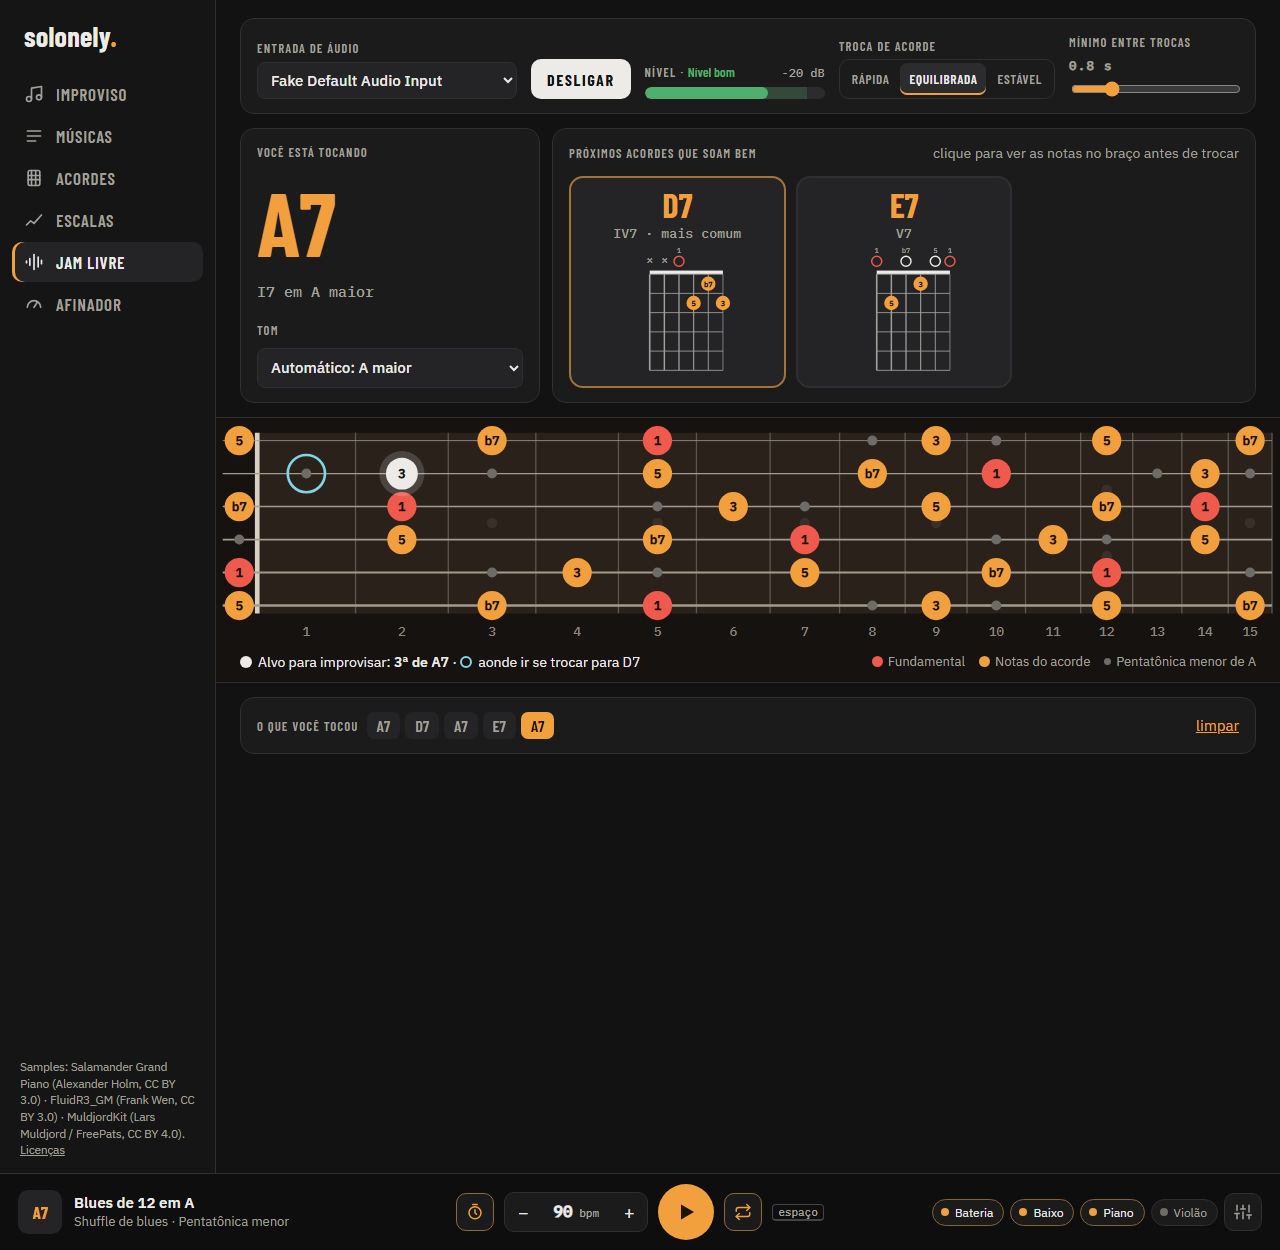
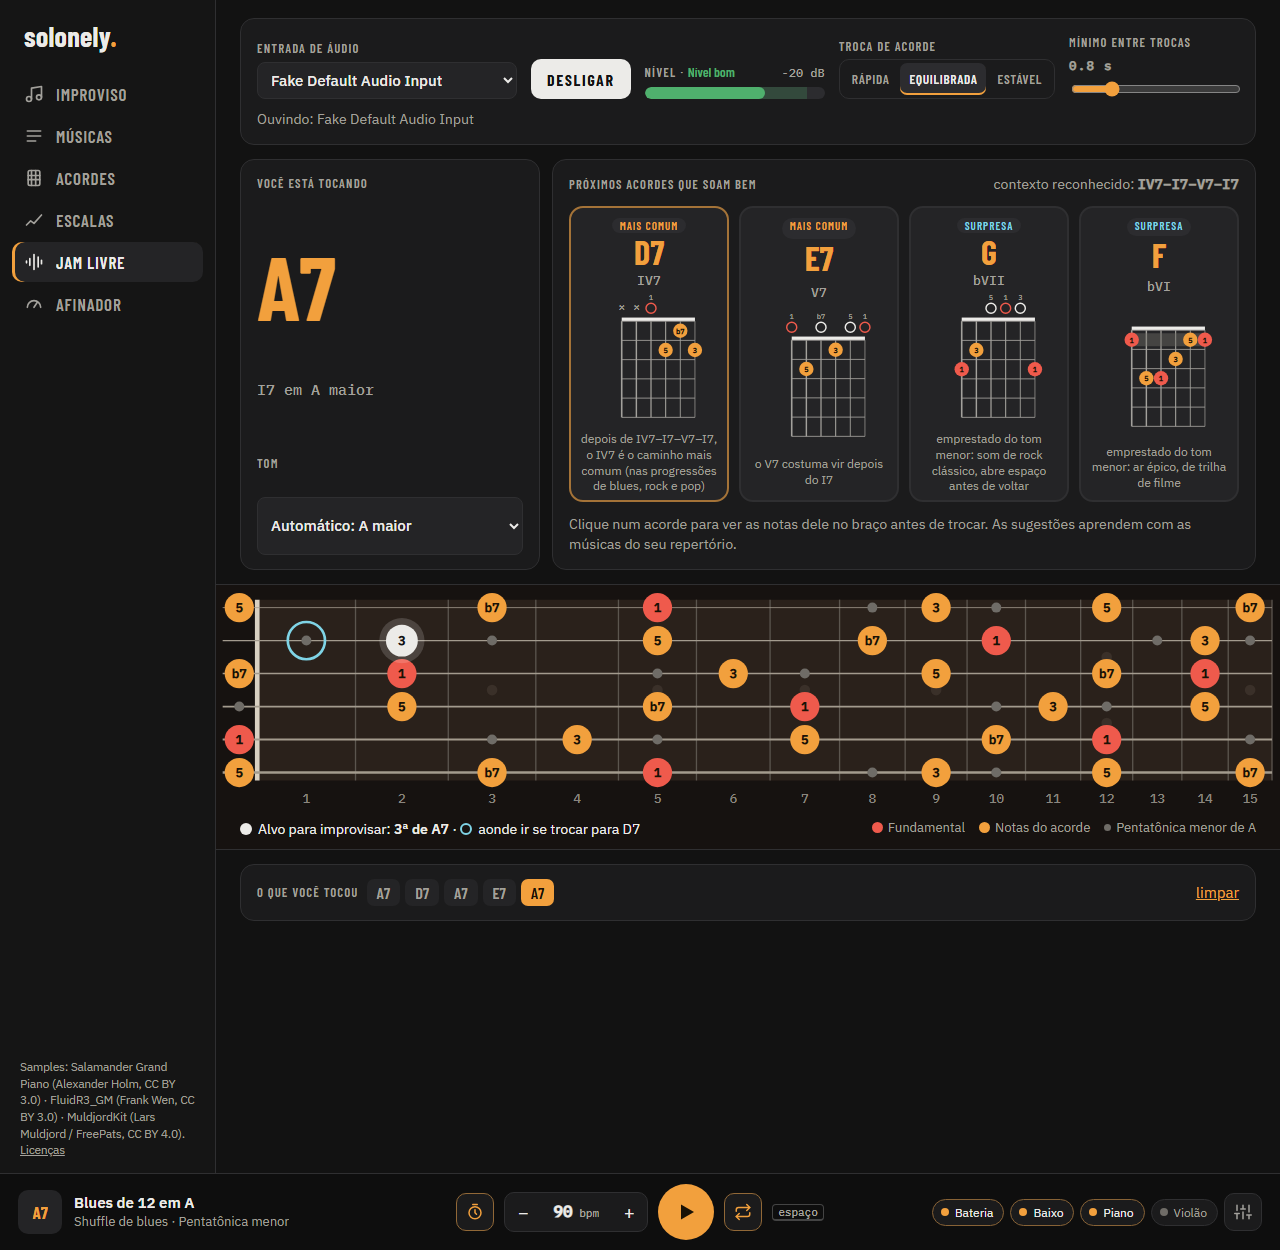
Documentação da rodada de melhorias: README, plano e prints novos (Compor, Jam, placar)

diff --git a/README.md b/README.md
@@ -47,8 +47,9 @@ por cima de uma base genérica do YouTube. Faltam três coisas:
 
 ### Improviso
 - Faixa da progressão andando até a linha "agora" (estilo Yousician), com a próxima troca e quanto falta.
-- Progressões prontas (blues de 12 normal e *quick change*, I–V–vi–IV, I–bVII–IV, i–bVII–bVI)
-  ou digitadas (`Am*2 G F E7`).
+- Progressões prontas em tom maior (blues de 12 normal e *quick change*, I–V–vi–IV, I–bVII–IV) e
+  menor (blues menor, i–iv–v, i–bVI–bIII–bVII, i–bVII–bVI, andaluza), ou digitadas (`Am*2 G F E7`).
+  O seletor de tom tem os 24 tons; num tom menor a base vira a versão menor da progressão.
 - Quatro estilos: **shuffle de blues**, **rock reto**, **slow blues 12/8** e **pop rock/balada**.
 - O braço mostra o desenho (box 1–5) em foco: a **fundamental** em vermelho, as **notas do acorde**
   em destaque com o grau (3, b7…) e a escala em pontos discretos. No tempo 4, brilham as notas do
@@ -58,7 +59,22 @@ por cima de uma base genérica do YouTube. Faltam três coisas:
   até a b7 de D7). Improvise livre e pouse no alvo no tempo 1.
 - Restrições sorteáveis para treino deliberado: "só box 2", "termine frases na 3ª",
   "só cordas 1 e 2"…
+- Escala no braço à escolha (inclusive modos e arpejos) ou **acompanhando o acorde**: mixolídio no 7,
+  dórico no m7, menor natural na tônica menor.
+- **Placar de notas-alvo**: com a guitarra ligada, o app confere o tempo 1 de cada compasso (no alvo,
+  outra nota do acorde ou fora).
 - Mixer (bateria, baixo, piano, violão), contagem de entrada, loop, virada a cada 4 ou 8 compassos.
+
+### Compor
+
+![Compor: progressão por efeito](docs/screenshots/compor.png)
+
+- Escolha o tom e o primeiro acorde; a cada passo o app oferece opções pelo **efeito**: repousar,
+  criar tensão, subir a energia, melancolia, surpresa, conclusão sóbria / forte / épica, suspense.
+- Cada opção mostra os acordes, os graus e **por que soa assim**, e tem **▶ ouvir** (o último acorde
+  + a opção, no violão) antes de usar; "outra opção" troca a sugestão.
+- Seções (verso, refrão, ponte…) com começos sugeridos, desenhos dos acordes usados,
+  **tocar com a base**, **improvisar sobre ela** e **salvar como música** do repertório.
 
 ### Músicas (repertório)
 
@@ -84,8 +100,8 @@ por cima de uma base genérica do YouTube. Faltam três coisas:
 
 ![Quiz de acordes](docs/screenshots/acordes-desktop.png)
 
-- Banco com ~30 formas móveis e abertas (power, maior, menor, 7, m7, 7M, sus2, sus4, add9),
-  com fundamental na 6ª e na 5ª corda.
+- Banco com formas móveis e abertas de 14 tipos (power, maior, menor, 7, m7, 7M, sus2, sus4, add9,
+  6, 9, 7(#9), m7(b5) e º7), com fundamental na 6ª e na 5ª corda.
 - **Consulta**: digite qualquer cifra (inclusive Am7b5, E9, C13, D/F#) e veja fórmula, notas e
   **todas as formas tocáveis no braço**, geradas por busca (até 4 dedos, contando pestana) e
   ordenadas da casa 1 à 15. As principais aparecem primeiro; clicar num desenho mostra onde
@@ -93,19 +109,21 @@ por cima de uma base genérica do YouTube. Faltam três coisas:
 
 ![Consulta de acordes com todas as formas](docs/screenshots/acordes-consulta.png)
 - **Quatro quizzes**: cifra → desenho, desenho → cifra, cifra → notas e um modo **cronometrado**
-  para fazer com a guitarra na mão.
+  para fazer com a guitarra na mão, que pode ser **conferido pelo áudio** (o relógio para quando o
+  acorde pedido soa). Teclas 1–4 e Enter para responder.
 - **Repetição espaçada (Leitner)**: o que você erra ou demora aparece mais vezes.
 
 ### Escalas
 
 ![Exercícios de escala](docs/screenshots/escalas-desktop.png)
 
-- Pentatônica menor e maior, blues, maior e menor natural, nos **desenhos 1–5**, em qualquer tom.
+- Pentatônica menor e maior, blues e blues maior, maior, menor natural, **dórico, mixolídio, menor
+  harmônica** e **arpejos** (maior, menor, 7, m7, 7M), nos **desenhos 1–5**, em qualquer tom.
 - Exercícios no metrônomo, com a nota da vez acesa no braço (e a próxima marcada): **subir e descer**,
   **grupos de 3 e de 4**, **terças** e **percorrer os boxes** (sobe um, desce o seguinte, atravessando o braço).
 - Ritmo em semínimas, colcheias, tercinas ou semicolcheias; opção de ouvir cada nota no violão.
 - Exibição para memorizar: tudo, **só as tônicas** ou **esconder e revelar**.
-- **Onde está a nota?**: quiz clicando no braço ("onde está o Lá na 3ª corda?"), com repetição espaçada.
+- **Onde está a nota?**: quiz clicando no braço ou **tocando a nota** ("onde está o Lá na 3ª corda?"), com repetição espaçada.
 - **Treinos salvos**: combinações favoritas viram o plano da semana.
 
 ### Jam livre
@@ -115,7 +133,9 @@ por cima de uma base genérica do YouTube. Faltam três coisas:
 Você toca livre; o app escuta e acompanha:
 - **acorde que você está tocando** e a função dele no tom ("IV7 em Lá maior");
 - **tom estimado** a partir do que foi tocado; quando é ambíguo (ex.: Em–D–C–D), mostra o rival para você fixar;
-- **3 próximos acordes** que soam bem, com o desenho de cada um (clique para ver as notas no braço antes de trocar);
+- **até 6 próximos acordes pelo contexto**: o app reconhece os últimos até 6 acordes (ex.: I–V–vi) num
+  banco de progressões **e das músicas do seu repertório**, e separa as opções em *mais comum*,
+  *volta pra casa* e *surpresa*, cada uma com o motivo em uma linha e o desenho;
 - **alvo para improvisar** (3ª/7ª do acorde) perto da última nota que você tocou, e o anel de aonde ir se trocar;
 - histórico do que você tocou.
 
@@ -268,8 +288,10 @@ npm run e2e        # com o preview rodando: Jam livre num navegador headless com
 - [x] **Jam livre** (primeira versão): acorde e tom detectados, próximos acordes e notas-alvo em tempo real
 - [x] **Músicas** (v0.2): colar uma cifra e virar base de treino, grade editável, cifra rolando
 - [ ] **Treino do dia + progresso**: sessão montada automaticamente e histórico de acertos
-- [ ] Jam livre aprendendo as transições com as músicas do seu repertório
-- [ ] Quiz cronometrado conferido pelo áudio (o app ouve se você tocou o acorde pedido)
+- [x] Jam livre pelo contexto, aprendendo com as músicas do repertório
+- [x] **Compor**: progressões pelo efeito, com teoria, prévia e salvar como música
+- [x] O app confere o que você toca: placar de notas-alvo, quiz de acordes e de notas pelo áudio
+- [x] Tons menores, modos, arpejos e acordes 6, 9, 7(#9), m7(b5) e º7
 
 O planejamento detalhado e as decisões de projeto estão em [`CLAUDE.md`](CLAUDE.md), e o plano
 das próximas versões em [`docs/plano.md`](docs/plano.md).

diff --git a/CLAUDE.md b/CLAUDE.md
@@ -123,6 +123,21 @@ Cada fase deve terminar com o app rodando e utilizável para praticar.
   Numa progressão pronta, trocar o modo troca a base pela equivalente (`progressionFor`: Blues de 12
   ↔ Blues menor, I–V–vi–IV ↔ i–bVI–bIII–bVII, I–bVII–IV ↔ i–bVII–bVI) e a escala acompanha.
   Progressões menores novas: blues menor de 12, i–iv–v, i–bVI–bIII–bVII, andaluza i–bVII–bVI–V.
+- **Rodada de melhorias de aprendizado** (pedida pelo usuário; Progresso/Treino do dia ficou para depois):
+  - Jam pelo contexto (`core/context-chords.ts`): últimos até 6 acordes procurados num banco
+    (progressões + músicas do repertório, peso 2×), backoff do trecho longo ao curto, tabela antiga de
+    reserva; até 6 opções em "mais comum / volta pra casa / surpresa" com o motivo.
+  - Área **Compor** (`core/compose.ts`, `features/compor`): opções por efeito (tensão, energia,
+    melancolia, conclusões…) em maior e menor, com graus e o porquê; prévia com violão fora do
+    Transport (`engine.previewChords`); salvar como música; rascunho em localStorage `compor-v1`.
+  - Feedback pelo áudio (`core/feedback.ts`): placar de notas-alvo no Improviso (tempo 1 de cada
+    compasso), cronometrado de Acordes conferido pelo áudio, "Onde está a nota" tocando.
+    `npm run e2e:placar` testa o placar com microfone falso (Edge headless mudo).
+  - Escalas: dórico, mixolídio, menor harmônica, blues maior, arpejos (os boxes agora só mostram notas
+    da escala); Improviso com escala "acompanha o acorde" (`chordScale`).
+  - Acordes no banco: 6, 9, 7(#9), m7(b5), º7. A detecção de áudio usa só os 9 tipos antigos
+    (`DETECT_QUALITIES` em chroma.ts): C6 = Am7 em notas, não pode entrar sem nova validação.
+- Prints com Edge headless: sempre `--mute-audio` e fechar o headless no fim (ele toca nas caixas do usuário).
 - Escalas: exercícios (subir/descer, grupos 3 e 4, terças, percorrer boxes) com metrônomo e nota
   acesa, exibição tudo/só tônicas/esconder, quiz "onde está a nota" (clique no braço, Leitner),
   treinos salvos. Motor tem `mode` ('base' | 'exercise'): um para o outro sem avisar errado a tela.

diff --git a/docs/plano.md b/docs/plano.md
@@ -30,7 +30,19 @@ Objetivo: treinar improviso e acordes nas músicas da banda.
 Riscos: o formato de cifra colada varia (tabs, acordes com parênteses). Mitigação: tela de
 revisão antes de salvar, onde dá para corrigir o que veio errado.
 
-## v0.3 Treino do dia + Progresso
+## Feito fora da ordem (pedido do usuário, a partir do relatório de melhorias)
+- Layout novo (menu lateral, player fixo, braço de ponta a ponta) e nome solonely.
+- Tons menores e progressões menores no Improviso.
+- Jam livre pelo contexto dos últimos 6 acordes, aprendendo com o repertório.
+- Área Compor (progressões pelo efeito, com teoria e prévia).
+- v0.4 e v0.5 (quiz pelo áudio e placar de notas-alvo) adiantadas.
+- Escalas novas (modos, arpejos, escala por acorde) e acordes 6, 9, 7(#9), m7(b5), º7.
+
+Ainda do relatório, para depois: pergunta e resposta, licks por estilo, treino de ouvido, loop de
+trecho e "mais devagar e acelerando" nas Músicas, tríades nas cordas agudas, exportar/importar as
+músicas entre aparelhos (junto com a v0.3).
+
+## v0.3 Treino do dia + Progresso (próxima, quando o usuário pedir)
 1. Migrar `acordes-v1`, `escalas-v1` e `entrada-v1` do localStorage para Dexie, sem perder dados.
 2. Registrar sessões (área, minutos, acertos, BPM máximo alcançado).
 3. **Treino do dia:** monta a sessão de 2 h a partir dos blocos do guia (aquecimento, escalas,
